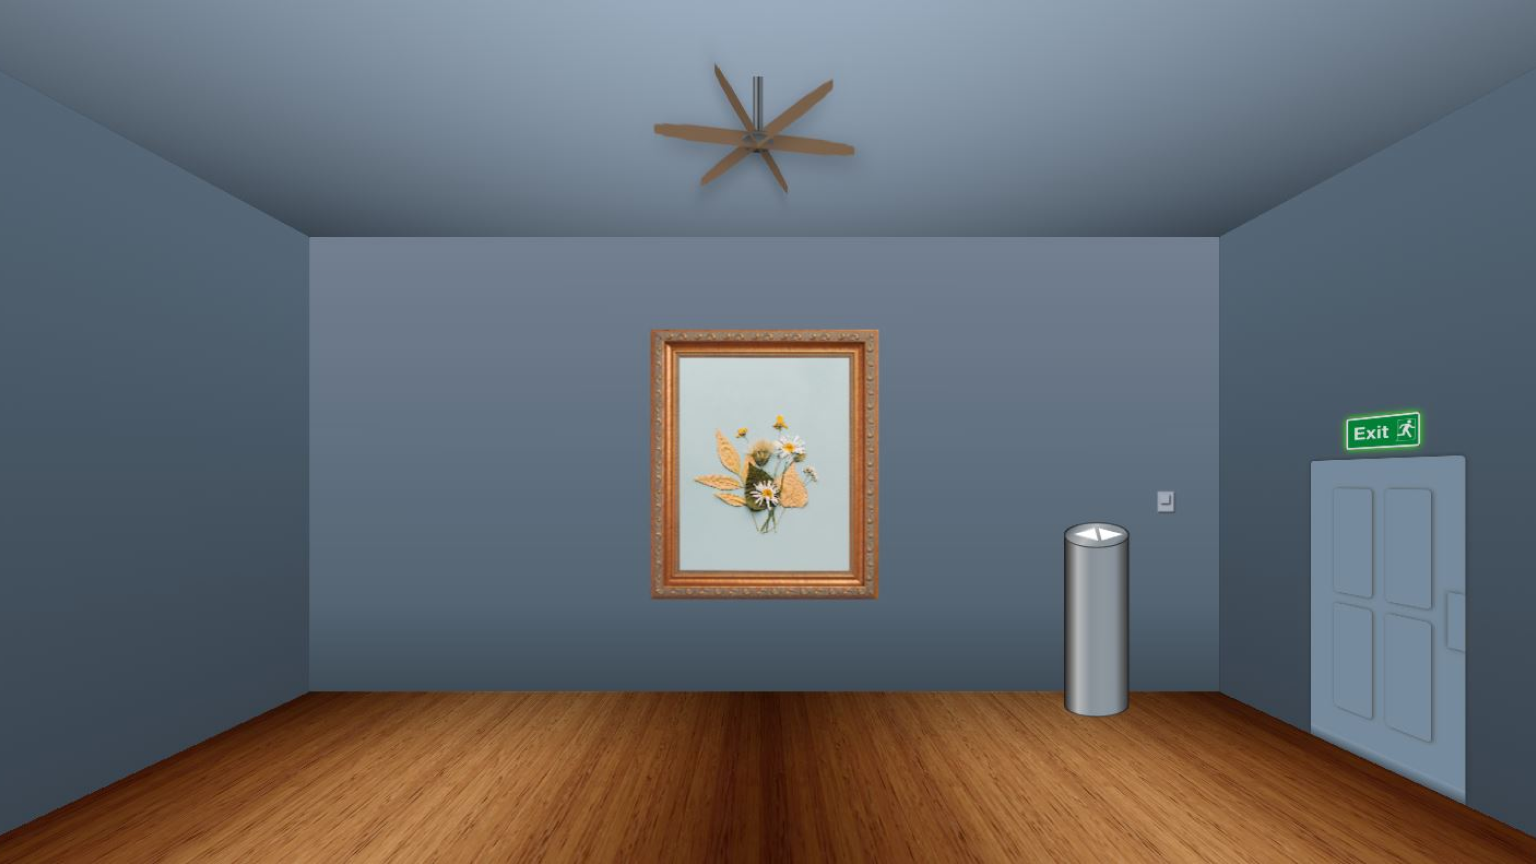
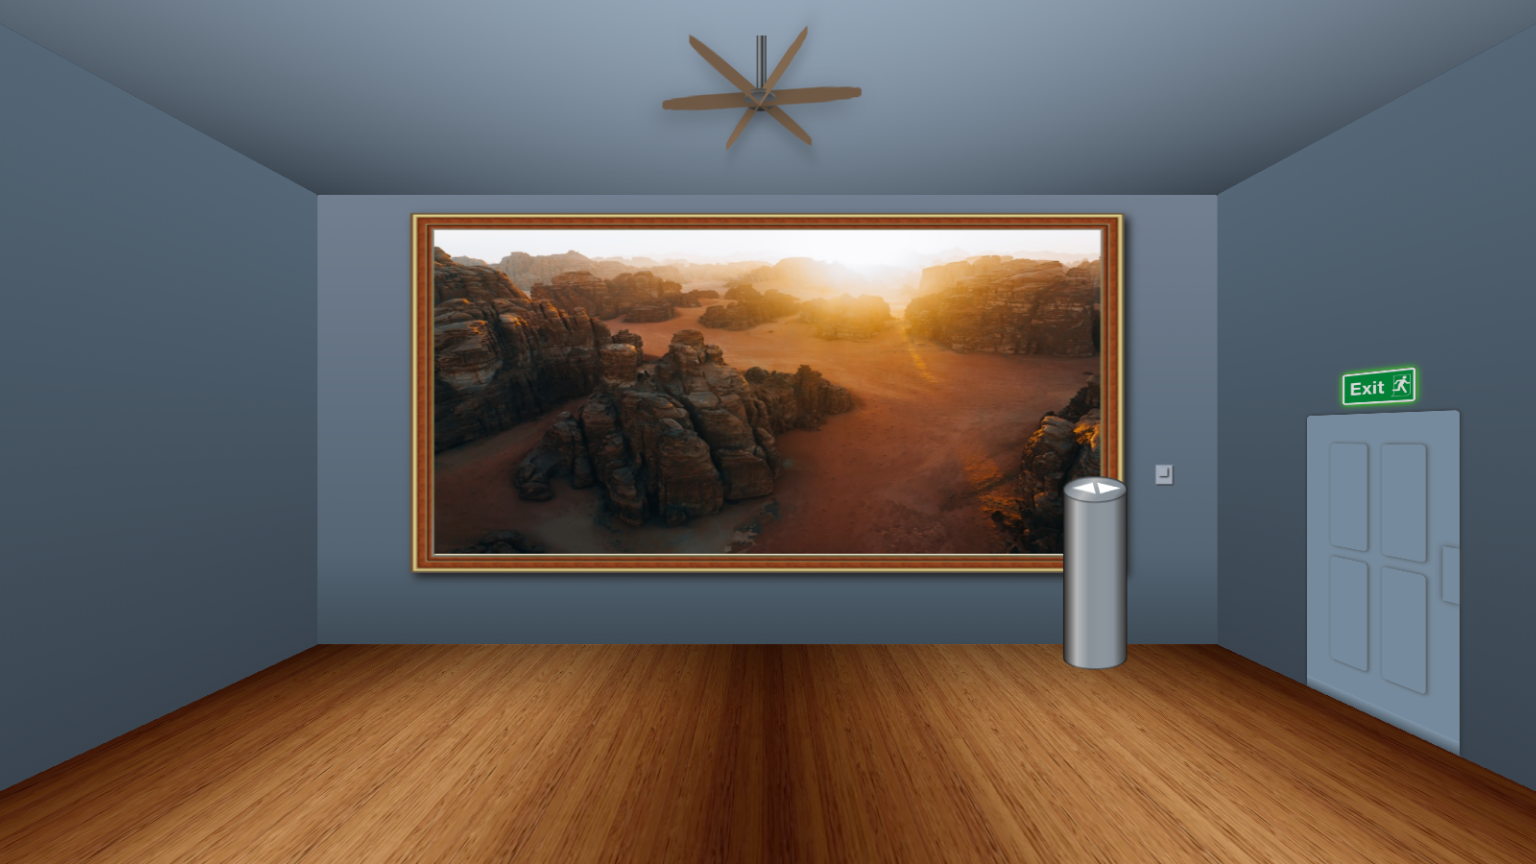
전시회웹 사진변경

diff --git a/src/section3/Section3.js b/src/section3/Section3.js
@@ -394,12 +394,12 @@ const Section3 = () => {
             <div className="explain">
               <span className="title">3D Gallery Web</span>
               <span className="s_title">🏅프로젝트 개요</span>
-              <span>• 미술작품 전시회 웹 페이지입니다.</span>
+              <span>• 사진 전시회 웹 페이지입니다.</span>
               <span>• React로 구현</span>
               <span>• 개인 프로젝트</span>
               <span className="s_title">💻구현기능 </span>
               <span>
-                • CSS 속성인 transform-style을 활용하여 입체적인 공간을
+                • CSS 속성인 transform-style: preserve-3d을 활용하여 입체적인 공간을
                 구현하였습니다.
               </span>
               <span>
@@ -409,9 +409,6 @@ const Section3 = () => {
               <span>
                 • 스위치 클릭 시, background-color값을 어둡게줘서 전등을 끈 듯한
                 느낌을 주었습니다.
-              </span>
-              <span>
-                • linear-gradient값을 활용하여 음영이 지는 느낌을 주었습니다.
               </span>
               <span>
                 • 기둥에 있는 버튼 클릭 시, 사진이 변경되게 하였습니다.
